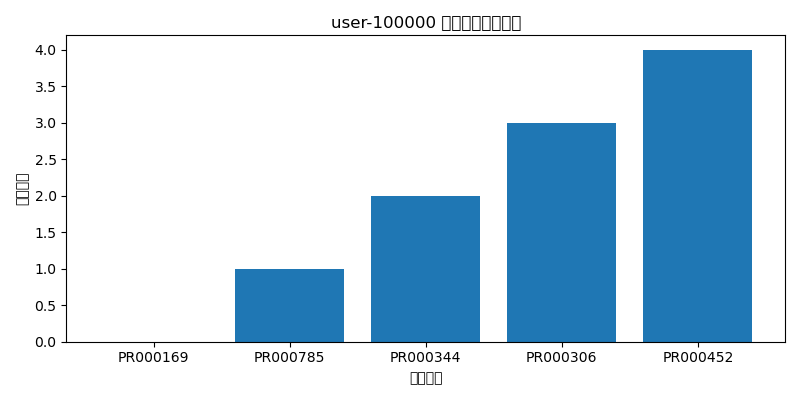
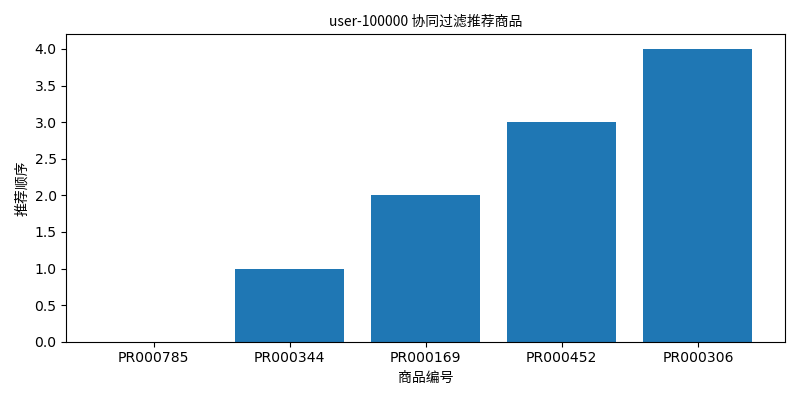
修改了中文显示

diff --git a/src/model_train.py b/src/model_train.py
@@ -6,7 +6,11 @@ from sklearn.metrics import roc_auc_score, mean_squared_error
 from sklearn.preprocessing import StandardScaler
 
 import matplotlib.pyplot as plt
+from matplotlib.font_manager import FontProperties
 import os
+
+font_path = "/usr/share/fonts/opentype/noto/NotoSansCJK-Regular.ttc"  # 请确保路径正确
+my_font = FontProperties(fname=font_path)
 
 def train_and_evaluate(features_path):
     features = pd.read_csv(features_path)
@@ -29,12 +33,12 @@ def train_and_evaluate(features_path):
     fpr, tpr, _ = roc_curve(y_test, y_pred)
     os.makedirs('output', exist_ok=True)
     plt.figure()
-    plt.plot(fpr, tpr, label=f'ROC curve (AUC = {auc_repeat:.2f})')
+    plt.plot(fpr, tpr, label=f'ROC曲线 (AUC = {auc_repeat:.2f})')
     plt.plot([0, 1], [0, 1], 'k--')
-    plt.xlabel('False Positive Rate')
-    plt.ylabel('True Positive Rate')
-    plt.title('复购预测ROC曲线')
-    plt.legend(loc='lower right')
+    plt.xlabel('假阳性率', fontproperties=my_font)
+    plt.ylabel('真阳性率', fontproperties=my_font)
+    plt.title('复购预测ROC曲线', fontproperties=my_font)
+    plt.legend(loc='lower right', prop=my_font)
     plt.savefig('output/repeat_roc.png')
     plt.close()
 
@@ -49,12 +53,12 @@ def train_and_evaluate(features_path):
     # 画ROC曲线
     fpr, tpr, _ = roc_curve(y_test, y_pred)
     plt.figure()
-    plt.plot(fpr, tpr, label=f'ROC curve (AUC = {auc_churn:.2f})')
+    plt.plot(fpr, tpr, label=f'ROC曲线 (AUC = {auc_churn:.2f})')
     plt.plot([0, 1], [0, 1], 'k--')
-    plt.xlabel('False Positive Rate')
-    plt.ylabel('True Positive Rate')
-    plt.title('流失预测ROC曲线')
-    plt.legend(loc='lower right')
+    plt.xlabel('假阳性率', fontproperties=my_font)
+    plt.ylabel('真阳性率', fontproperties=my_font)
+    plt.title('流失预测ROC曲线', fontproperties=my_font)
+    plt.legend(loc='lower right', prop=my_font)
     plt.savefig('output/churn_roc.png')
     plt.close()
 
@@ -70,18 +74,18 @@ def train_and_evaluate(features_path):
         # 画真实值与预测值散点图
         plt.figure()
         plt.scatter(y_test, y_pred, alpha=0.5)
-        plt.xlabel('真实消费金额')
-        plt.ylabel('预测消费金额')
-        plt.title('未来消费金额预测散点图')
+        plt.xlabel('真实消费金额', fontproperties=my_font)
+        plt.ylabel('预测消费金额', fontproperties=my_font)
+        plt.title('未来消费金额预测散点图', fontproperties=my_font)
         plt.savefig('output/amount_scatter.png')
         plt.close()
         
-    # 特征重要性
+        # 特征重要性
         importances = reg.feature_importances_
         feat_names = features.drop(['用户名', 'repeat', 'is_churn', 'future_amount'], axis=1).columns
         plt.figure(figsize=(8, 6))
         plt.barh(feat_names, importances)
-        plt.title('XGBoost特征重要性')
+        plt.title('XGBoost特征重要性', fontproperties=my_font)
         plt.tight_layout()
         plt.savefig('output/xgb_feature_importance.png')
         plt.close()

diff --git a/src/item_recommend.py b/src/item_recommend.py
@@ -4,8 +4,11 @@ from sklearn.metrics.pairwise import cosine_similarity
 import numpy as np
 
 import matplotlib.pyplot as plt
+from matplotlib.font_manager import FontProperties
 import os
 
+font_path = "/usr/share/fonts/opentype/noto/NotoSansCJK-Regular.ttc"  # 请确保路径正确
+my_font = FontProperties(fname=font_path)
 
 def run_item_recommend(input_path, target_user=None):
     df = pd.read_csv(input_path)
@@ -37,8 +40,8 @@ def run_item_recommend(input_path, target_user=None):
             [str(i) for i in top_items['itemsets']],
             top_items['support']
         )
-        plt.xlabel('支持度')
-        plt.title('频繁项集支持度Top10')
+        plt.xlabel('支持度', fontproperties=my_font)
+        plt.title('频繁项集支持度Top10', fontproperties=my_font)
         plt.tight_layout()
         plt.savefig('output/frequent_itemsets_top10.png')
         plt.close()
@@ -59,17 +62,16 @@ def run_item_recommend(input_path, target_user=None):
 
     if target_user is None:
         target_user = user_item.index[0]  # 默认取第一个用户
-    print(f'{target_user} 推荐商品:', recommend(target_user))
-    
     rec_list = recommend(target_user)
     print(f'{target_user} 推荐商品:', rec_list)
     # 可视化推荐商品
     plt.figure(figsize=(8, 4))
     plt.bar(rec_list, range(len(rec_list)))
-    plt.xlabel('商品编号')
-    plt.ylabel('推荐顺序')
-    plt.title(f'{target_user} 协同过滤推荐商品')
+    plt.xlabel('商品编号', fontproperties=my_font)
+    plt.ylabel('推荐顺序', fontproperties=my_font)
+    plt.title(f'{target_user} 协同过滤推荐商品', fontproperties=my_font)
     plt.tight_layout()
+    os.makedirs('output', exist_ok=True)
     plt.savefig(f'output/{target_user}_recommend.png')
     plt.close()
 
